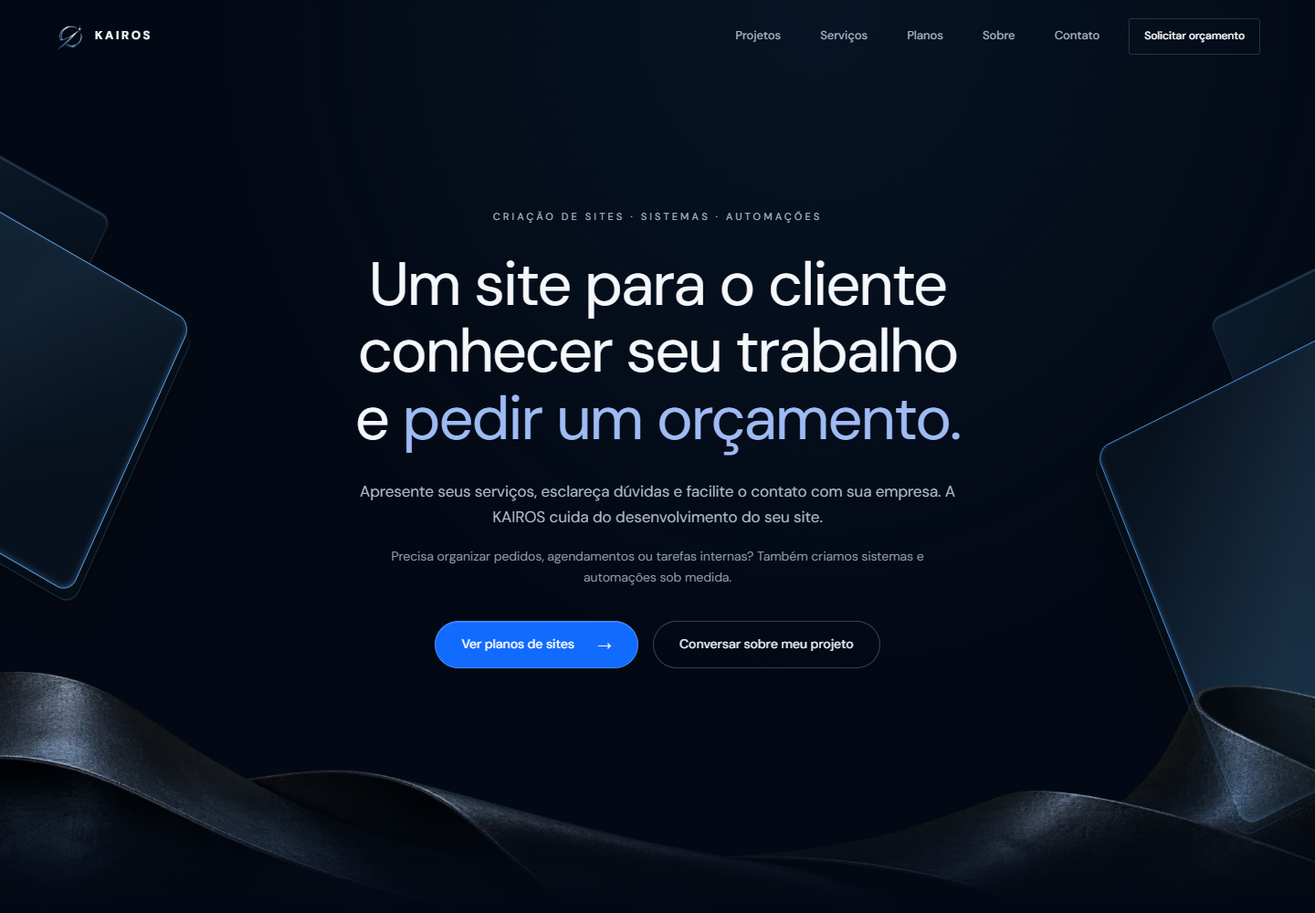
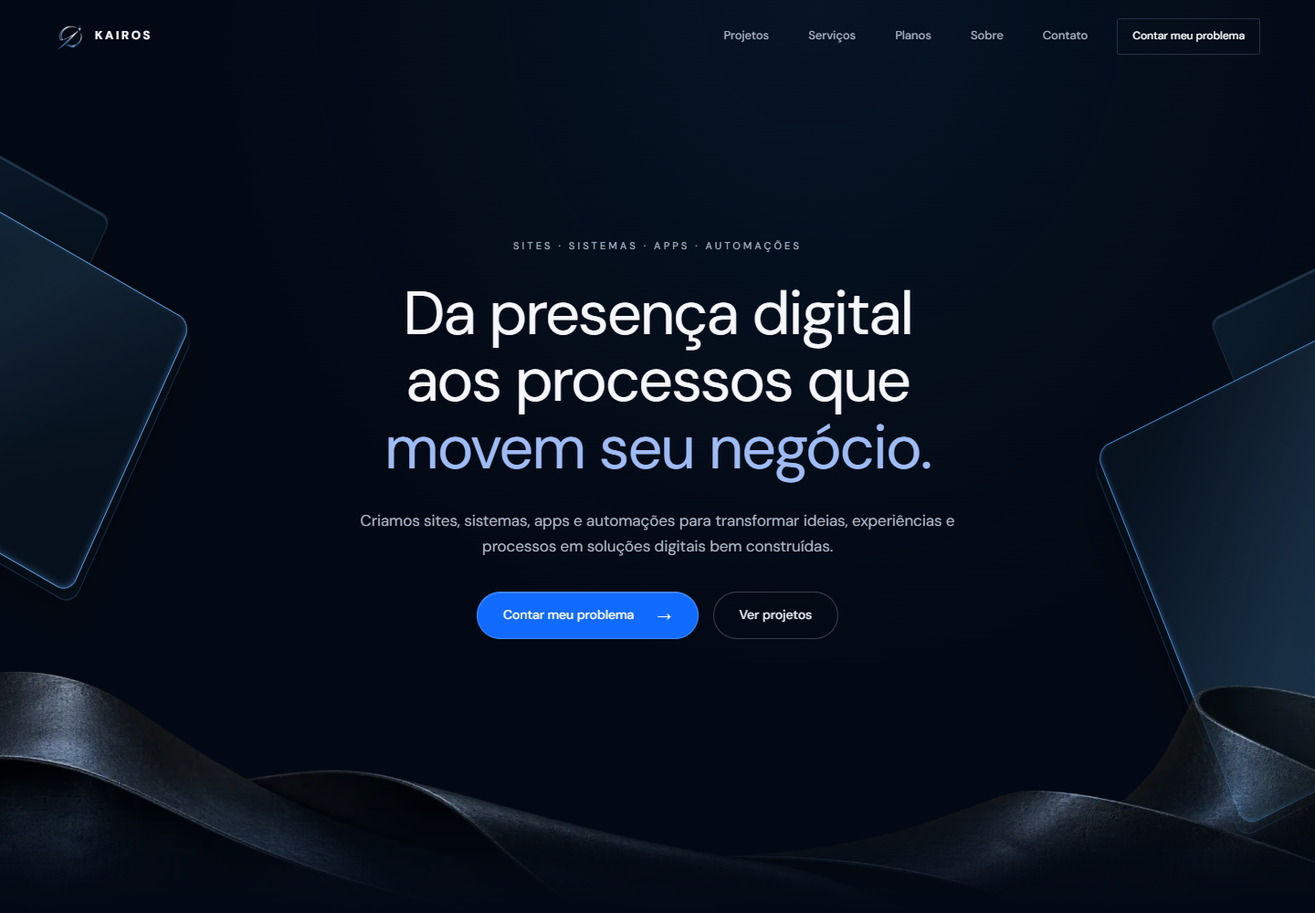
Unify KAIROS positioning and polish portfolio and conversion flow

diff --git a/components/kairos/PricingSection.tsx b/components/kairos/PricingSection.tsx
@@ -1,5 +1,4 @@
 import { sitePlans, customSolutions } from "@/data/pricing";
-import { buildWhatsAppMessageUrl } from "@/lib/constants";
 import { ProblemFlowTrigger } from "./problem-flow/ProblemFlow";
 import styles from "./PricingSection.module.css";
 
@@ -8,7 +7,7 @@ export default function PricingSection() {
     <div className={styles.shell}>
       <header className={styles.heading}>
         <h2 id="pricing-title">Planos para criar seu site.</h2>
-        <p>Compare páginas, prazo e revisões. A contratação começa com uma conversa, sem mensalidade obrigatória.</p>
+        <p>Uma página de apresentação ou um site com mais conteúdo. Compare o espaço e as revisões de cada plano.</p>
       </header>
 
       <div className={styles.plans}>
@@ -20,28 +19,27 @@ export default function PricingSection() {
             <span className={styles.upfront}>R$ {plan.upfront} à vista</span>
           </p>
           <p className={styles.description}>{plan.description}</p>
-          <p className={styles.delivery}><span>Prazo</span> {plan.delivery}{plan.id === "essencial" && <small>Após receber todo o conteúdo necessário.</small>}</p>
-          <ul className={styles.features}>{plan.features.map(feature => <li key={feature}>{feature}</li>)}</ul>
-          <a
+          <p className={styles.scope}>{plan.pages}<span aria-hidden="true"> · </span>{plan.revisions}</p>
+          <p className={styles.delivery}><span>Prazo</span>{" "}{plan.delivery}{plan.id === "essencial" && <small>{" "}Após receber todo o conteúdo necessário.</small>}</p>
+          <ul className={styles.features}>{plan.features.slice(2).map(feature => <li key={feature}>{feature}</li>)}</ul>
+          <ProblemFlowTrigger
             className={styles.choose}
-            href={buildWhatsAppMessageUrl(`Olá! Conheci a KAIROS pelo site e tenho interesse no ${plan.name}: 10x de R$ ${plan.installment} ou R$ ${plan.upfront} à vista. Gostaria de conversar sobre meu negócio e os próximos passos.`)}
-            target="_blank"
-            rel="noopener noreferrer"
-            aria-label={plan.cta + " — conversar no WhatsApp"}
+            subject={`${plan.name} — R$ ${plan.upfront} ou 10x de R$ ${plan.installment}`}
+            aria-label={`Contar meu problema — ${plan.name}`}
             data-conversion="plan_contact" data-plan-id={plan.id}
-          >{plan.cta}<span aria-hidden="true">→</span></a>
+          >Contar meu problema<span aria-hidden="true">→</span></ProblemFlowTrigger>
         </article>)}
       </div>
 
-      <div className={styles.terms}><p><strong>Criação do site em até 10 parcelas.</strong> Não é uma assinatura mensal.</p><p>Domínio e hospedagem não estão incluídos. Você pode contratar seu provedor e pedir auxílio à KAIROS na configuração. Páginas, recursos, cronograma e eventuais serviços adicionais são detalhados na proposta.</p><a href="#duvidas">Tirar dúvidas sobre os planos →</a></div>
+      <div className={styles.terms}><p><strong>Criação do site em até 10 parcelas.</strong> Sem mensalidade obrigatória da KAIROS.</p><p>Domínio e hospedagem não estão incluídos. Você pode contratar seu provedor e pedir auxílio à KAIROS na configuração. Páginas, recursos, cronograma e eventuais serviços adicionais são detalhados na proposta.</p><a href="#duvidas">Tirar dúvidas sobre os planos →</a></div>
 
       <div className={styles.custom}>
         <h3>Precisa de algo além de um site?</h3>
         <ul className={styles.solutions}>
           {customSolutions.map(solution => <li key={solution}>
-            <ProblemFlowTrigger className={styles.solution} aria-label={solution + " — solicitar orçamento"}>
+            <ProblemFlowTrigger className={styles.solution} subject={solution} aria-label={solution + " — contar meu problema"}>
               <span>{solution}</span>
-              <span className={styles.quote}>Solicitar orçamento <span className={styles.arrow} aria-hidden="true">→</span></span>
+              <span className={styles.quote}>Contar meu problema <span className={styles.arrow} aria-hidden="true">→</span></span>
             </ProblemFlowTrigger>
           </li>)}
         </ul>

diff --git a/components/kairos/ConversionSections.tsx b/components/kairos/ConversionSections.tsx
@@ -4,7 +4,7 @@ import { buildWhatsAppUrl } from "@/lib/constants";
 import styles from "./ConversionSections.module.css";
 
 export function ProcessSection() {
-  return <section id="como-funciona" className={styles.section} aria-labelledby="process-title"><div className={styles.shell}>
+  return <section id="como-funciona" className={styles.section} aria-labelledby="process-title"><div className={`${styles.shell} ${styles.processLayout}`}>
     <header className={styles.heading}><p className={styles.label}>DO PRIMEIRO CONTATO À ENTREGA</p><h2 id="process-title">Como seu projeto sai do papel.</h2><p>Você acompanha o trabalho e fala diretamente com a KAIROS pelo WhatsApp.</p></header>
     <ol className={styles.steps}>{projectSteps.map((step,index)=><li key={step.title}><span className={styles.number}>0{index+1}</span><h3>{step.title}</h3><p>{step.text}</p></li>)}</ol>
   </div></section>;
@@ -13,14 +13,14 @@ export function ProcessSection() {
 export function AboutSection() {
   return <section id="quem-somos" className={styles.section} aria-labelledby="about-title"><div className={`${styles.shell} ${styles.about}`}>
     <div><p className={styles.label}>SOBRE A KAIROS</p><h2 id="about-title">Atendimento direto, do começo à entrega.</h2></div>
-    <div><p>A KAIROS desenvolve sites, sistemas, aplicativos e automações. O ponto de partida é entender o que sua empresa precisa e definir o que será construído.</p><p>Você conversa diretamente com a KAIROS pelo WhatsApp para tirar dúvidas, alinhar a proposta e acompanhar o projeto.</p><Link className={styles.link} href="/sobre">Conhecer a KAIROS <span aria-hidden="true">→</span></Link></div>
+    <div><p>Entendemos o problema, definimos o que precisa ser construído e desenvolvemos sites, sistemas, apps e automações.</p><p>O atendimento é direto com a KAIROS. Você acompanha o desenvolvimento e alinha as decisões pelo WhatsApp.</p><Link className={styles.link} href="/sobre">Conhecer a KAIROS <span aria-hidden="true">→</span></Link></div>
   </div></section>;
 }
 
 export function FaqSection() {
-  return <section id="duvidas" className={styles.section} aria-labelledby="faq-title"><div className={styles.shell}>
+  return <section id="duvidas" className={styles.section} aria-labelledby="faq-title"><div className={`${styles.shell} ${styles.faqLayout}`}>
     <header className={styles.heading}><h2 id="faq-title">Antes de contratar.</h2><p>As respostas para as dúvidas sobre prazos, pagamento e entrega.</p></header>
     <div className={styles.faq}>{commonQuestions.map(item=><details key={item.question}><summary>{item.question}<span aria-hidden="true">+</span></summary><p>{item.answer}</p></details>)}</div>
-    <a className={styles.link} href={buildWhatsAppUrl("tirar uma dúvida antes de contratar")} target="_blank" rel="noopener noreferrer" data-conversion="whatsapp_open" data-source="faq">Ficou alguma dúvida? Fale no WhatsApp <span aria-hidden="true">→</span></a>
+    <a className={styles.link} href={buildWhatsAppUrl("tirar uma dúvida antes de contratar")} target="_blank" rel="noopener noreferrer" data-conversion="whatsapp_open" data-source="faq">Prefiro tirar uma dúvida no WhatsApp <span aria-hidden="true">→</span></a>
   </div></section>;
 }

diff --git a/app/sobre/page.tsx b/app/sobre/page.tsx
@@ -1,20 +1,20 @@
 import type { Metadata } from "next";
 import Link from "next/link";
-import { buildWhatsAppUrl } from "@/lib/constants";
+import { ProblemFlowTrigger } from "@/components/kairos/problem-flow/ProblemFlow";
 import { ProcessSection } from "@/components/kairos/ConversionSections";
 import styles from "@/components/kairos/ConversionSections.module.css";
-export const metadata: Metadata = { title: "Sobre a KAIROS", description: "Sites, sistemas e automações com atendimento direto da KAIROS, do primeiro contato à entrega.", alternates:{canonical:"/sobre"} };
+export const metadata: Metadata = { title: "Sobre a KAIROS", description: "Sites, sistemas, apps e automações com atendimento direto da KAIROS, do primeiro contato à entrega.", alternates:{canonical:"/sobre"} };
 export default function AboutPage() {
   return <main id="conteudo">
     <section className={`${styles.section} ${styles.page}`}><div className={`${styles.shell} ${styles.prose}`}>
-      <p className={styles.label}>KAIROS · DESENVOLVIMENTO DE SITES E SOFTWARE</p>
+      <p className={styles.label}>SITES · SISTEMAS · APPS · AUTOMAÇÕES</p>
       <h1>Você fala diretamente com quem cuida do seu projeto.</h1>
       <p>A KAIROS desenvolve sites para empresas e ferramentas para a rotina do negócio: sistemas, aplicativos e automações.</p>
       <p>O atendimento acontece diretamente com a KAIROS, principalmente pelo WhatsApp, desde a primeira conversa até a entrega. É por ali que você apresenta sua necessidade, tira dúvidas e acompanha o trabalho.</p>
       <h2>O combinado vem antes do desenvolvimento.</h2>
-      <p>A proposta define as páginas, funcionalidades, prazo e revisões do projeto. Os planos de sites não têm mensalidade obrigatória. Domínio, hospedagem e serviços de manutenção são tratados separadamente.</p>
+      <p>A proposta define as páginas, funcionalidades, prazo e revisões do projeto. Domínio, hospedagem e serviços de manutenção são tratados separadamente.</p>
       <p>Para conhecer o trabalho, veja as telas e os detalhes dos projetos disponíveis no portfólio.</p>
-      <div className={styles.pageActions}><Link className="button" href="/projetos">Ver projetos →</Link><a className={styles.link} href={buildWhatsAppUrl()} target="_blank" rel="noopener noreferrer" data-conversion="whatsapp_open" data-source="about">Conversar com a KAIROS →</a></div>
+      <div className={styles.pageActions}><Link className="button" href="/projetos">Ver projetos →</Link><ProblemFlowTrigger className={styles.link}>Contar meu problema →</ProblemFlowTrigger></div>
     </div></section>
     <ProcessSection />
   </main>;

diff --git a/components/kairos/problem-flow/ProblemFlow.tsx b/components/kairos/problem-flow/ProblemFlow.tsx
@@ -9,13 +9,13 @@ import { buildWhatsAppUrl } from "@/lib/constants";
 import { trackConversion } from "@/lib/conversion";
 import styles from "./ProblemFlow.module.css";
 
-const FlowContext = createContext<(() => void) | null>(null);
-export function ProblemFlowTrigger({ children, onClick, ...props }: AnchorHTMLAttributes<HTMLAnchorElement>) {
+const FlowContext = createContext<((subject?: string) => void) | null>(null);
+export function ProblemFlowTrigger({ children, onClick, subject, ...props }: AnchorHTMLAttributes<HTMLAnchorElement> & { subject?: string }) {
   const open = useContext(FlowContext);
   return <Link {...props} href="/#briefing" onClick={event => {
     onClick?.(event);
     if (!open || event.defaultPrevented || event.metaKey || event.ctrlKey || event.shiftKey || event.altKey) return;
-    event.preventDefault(); open();
+    event.preventDefault(); open(subject);
   }}>{children}</Link>;
 }
 
@@ -30,7 +30,7 @@ export default function ProblemFlowProvider({ children }: { children: ReactNode 
   const [editing, setEditing] = useState(false);
   const [error, setError] = useState("");
 
-  function open() { trackConversion("form_start"); origin.current = document.activeElement as HTMLElement | null; setOpened(true); }
+  function open(subject?: string) { setAnswers(current => ({ ...current, interest: subject || "" })); trackConversion("form_start"); origin.current = document.activeElement as HTMLElement | null; setOpened(true); }
   function close() { setOpened(false); }
   useEffect(() => {
     const openHash = () => { if (location.hash === "#briefing") setOpened(true); };
@@ -82,6 +82,7 @@ export default function ProblemFlowProvider({ children }: { children: ReactNode 
         <p className={styles.hint}>Prepare um resumo em três etapas ou <a href={buildWhatsAppUrl()} data-conversion="whatsapp_open" data-source="form_direct" target="_blank" rel="noopener noreferrer">converse direto no WhatsApp</a>.</p>
         <p className={styles.progress}>{reviewing ? "Revisão" : `Pergunta ${step + 1} de 3`}</p>
         <h2 id="problem-flow-title" ref={heading} tabIndex={-1}>{reviewing ? "Confira seu resumo" : QUESTIONS[step]}</h2>
+        {answers.interest && <p className={styles.hint}>Interesse: {answers.interest}</p>}
         <div key={reviewing ? "review" : step} className={styles.step}>
           {reviewing ? <><ProblemReview answers={answers} edit={edit} /><button className={styles.textButton} type="button" onClick={back}>← Voltar</button></> : <form onSubmit={continueFlow} noValidate>
             {step === 0 && <ProblemStep {...props} />}

diff --git a/app/projetos/kairos/page.tsx b/app/projetos/kairos/page.tsx
@@ -1,0 +1,21 @@
+import type { Metadata } from "next";
+import Image from "next/image";
+import Link from "next/link";
+import { ProblemFlowTrigger } from "@/components/kairos/problem-flow/ProblemFlow";
+import styles from "@/components/kairos/ConversionSections.module.css";
+export const metadata: Metadata = { title: "KAIROS — projeto autoral", description: "As decisões de conteúdo, navegação e movimento do site da KAIROS.", alternates: { canonical: "/projetos/kairos" } };
+export default function KairosCase() {
+ return <main id="conteudo" className={`${styles.section} ${styles.page}`}><div className={styles.shell}>
+  <Link className={styles.link} href="/projetos">← Ver projetos</Link>
+  <header className={styles.prose}><p className={styles.label}>PROJETO AUTORAL · SITE DA KAIROS</p><h1>Do que fazemos ao que você precisa.</h1><p>O próprio site da KAIROS reúne presença digital, sistemas, apps e automações em uma apresentação com planos e um caminho para explicar o projeto.</p></header>
+  <figure className={styles.caseImage}><Image src="/portfolio/kairos-current.png" alt="Página inicial da KAIROS" width={1440} height={1000} sizes="(max-width:760px) 100vw, 1232px" priority /><figcaption>Abertura e navegação do site.</figcaption></figure>
+  <div className={styles.caseNotes}>{[
+   ["Problema", "Apresentar serviços diferentes sem perder clareza sobre o que pode ser contratado como plano de site e o que precisa de orçamento próprio."],
+   ["Direção", "Uma abertura de maior impacto, seguida por projetos, serviços, planos e respostas às dúvidas de contratação."],
+   ["Arquitetura", "Páginas em Next.js e componentes React, com dados de planos e perguntas frequentes compartilhados para manter as condições consistentes."],
+   ["Movimento", "Transições da seção Memphis acompanham a rolagem. Há uma alternativa em SVG e suporte à preferência por movimento reduzido."],
+   ["Entrega", "Portfólio, comparação de planos e resumo em três etapas. O visitante revisa a mensagem antes de continuar no WhatsApp."]
+  ].map(([title,text])=><section key={title}><h2>{title}</h2><p>{text}</p></section>)}</div>
+  <ProblemFlowTrigger className={styles.link}>Contar meu problema →</ProblemFlowTrigger>
+ </div></main>;
+}

diff --git a/components/kairos/KairosLab.tsx b/components/kairos/KairosLab.tsx
@@ -3,15 +3,15 @@ import Link from "next/link";
 import { portfolioProjects } from "@/data/projects";
 import styles from "./KairosLab.module.css";
 
-export default function KairosLab() {
+export default function KairosLab({ priority = false }: { priority?: boolean }) {
   return <section id="projetos" className={styles.lab} aria-labelledby="lab-title">
     <header className={styles.intro}><div className={styles.shell}><h2 id="lab-title">Veja o trabalho na prática.</h2><p>Telas e funcionalidades de projetos desenvolvidos pela KAIROS. Veja os detalhes para avaliar o que faz sentido para o seu negócio.</p></div></header>
     <div className={`${styles.shell} ${styles.portfolioGrid}`}>
       {portfolioProjects.map(project=><article key={project.id} className={styles.portfolioCard}>
-        <Link href={project.url} aria-label={`Ver projeto ${project.name}`} className={styles.portfolioImage}><Image src={project.image} alt={`Página do projeto ${project.name}`} width={1440} height={1000} sizes="(max-width:760px) calc(100vw - 40px), 600px" /></Link>
-        <p className={styles.portfolioType}>{project.id === "kairos" ? "SITE PRÓPRIO · KAIROS" : "PROJETO DESENVOLVIDO · CATÁLOGO DE RELÓGIOS"}</p>
+        <Link href={project.url} aria-label={`Ver projeto ${project.name}`} className={styles.portfolioImage}><Image src={project.image} alt={`Página do projeto ${project.name}`} width={1440} height={1000} priority={priority} sizes="(max-width:760px) calc(100vw - 40px), 600px" /></Link>
+        <p className={styles.portfolioType}>{project.id === "kairos" ? "PROJETO AUTORAL · SITE DA KAIROS" : "PROJETO AUTORAL · KAIROS LAB"}</p>
         <h3>{project.name}</h3><p>{project.description}</p>
-        <Link className={styles.link} href={project.url}>{project.id === "kairos" ? "Explorar este site" : "Ver telas e funcionalidades"} <span aria-hidden="true">→</span></Link>
+        <Link className={styles.link} href={project.url}>{project.id === "kairos" ? "Ver decisões do projeto" : "Ver telas e funcionalidades"} <span aria-hidden="true">→</span></Link>
       </article>)}
     </div>
   </section>;

diff --git a/components/kairos/ConversionSections.module.css b/components/kairos/ConversionSections.module.css
@@ -30,3 +30,30 @@
 .pageActions { display:flex; flex-wrap:wrap; align-items:center; gap:24px; margin-top:32px; }
 .pageActions .link { margin-top:0; }
 @media(max-width:760px) { .page { padding-top:120px; } .pageActions { align-items:stretch; flex-direction:column; } }
+
+/* Quieter editorial rhythm after the opening and portfolio. */
+.section { padding-block:72px; }
+.processLayout,.faqLayout { display:grid; grid-template-columns:minmax(0,4fr) minmax(0,7fr); gap:32px 80px; align-items:start; }
+.processLayout .heading,.faqLayout .heading { margin-bottom:0; }
+.processLayout h2,.faqLayout h2,.about h2 { font-size:clamp(30px,3vw,42px); }
+.steps { display:block; }
+.steps li { display:grid; grid-template-columns:32px minmax(0,1fr); column-gap:20px; padding:20px 0; border-top:1px solid #253045; }
+.steps li:last-child { border-bottom:1px solid #253045; }
+.number { grid-row:1 / 3; padding-top:3px; }
+.steps h3 { margin:0 0 8px; font-size:19px; }
+.steps p { grid-column:2; font-size:14px; line-height:1.65; }
+.faq summary { padding:17px 0; font-size:16px; }
+.faq details p { padding-bottom:20px; font-size:14px; }
+.faqLayout > .link { grid-column:2; margin-top:0; font-size:14px; }
+.faq summary:focus-visible,.link:focus-visible { outline:2px solid #aacaff; outline-offset:5px; }
+.about { gap:80px; }
+.caseImage { margin:48px 0; }
+.caseImage img { width:100%; height:auto; border:1px solid #253045; }
+.caseImage figcaption { color:#a8b4c5; font-size:13px; margin-top:12px; }
+.caseNotes { max-width:950px; }
+.caseNotes section { display:grid; grid-template-columns:1fr 2fr; gap:48px; border-top:1px solid #253045; padding:24px 0; }
+.caseNotes h2 { font-size:24px; }
+.caseNotes p { margin:0; }
+.page { padding-top:152px; }
+@media(max-width:900px) { .processLayout,.faqLayout { grid-template-columns:1fr; gap:24px; } .faqLayout > .link { grid-column:1; } }
+@media(max-width:760px) { .section { padding-block:48px; } .page { padding-top:120px; } .about { gap:24px; } .caseNotes section { grid-template-columns:1fr; gap:12px; } }

diff --git a/components/kairos/AfterDelivery.tsx b/components/kairos/AfterDelivery.tsx
@@ -1,14 +1,9 @@
-import Reveal from "./Reveal";
+import Link from "next/link";
 import styles from "./Capabilities.module.css";
-const pillars = [
-  { title: "Sem mensalidade obrigatória", description: "Os planos são para a criação do site. Não há uma assinatura obrigatória de manutenção com a KAIROS." },
-  { title: "Domínio e hospedagem à parte", description: "Você pode contratar seu provedor. A KAIROS pode auxiliar na configuração; o custo depende do projeto e do serviço escolhido." },
-  { title: "Alterações futuras", description: "Novas funcionalidades, atualizações recorrentes de conteúdo e manutenção contínua são cobradas separadamente, mediante orçamento." },
-  { title: "Correções e garantia", description: "O período e as condições de garantia para correções relacionadas ao desenvolvimento são definidos na proposta." },
-];
 export default function AfterDelivery() {
-  return <section className={styles.delivery} aria-labelledby="delivery-title"><div className={`${styles.shell} ${styles.layout} ${styles.deliveryLayout}`}>
-    <Reveal className={`${styles.intro} ${styles.deliveryIntro}`}><p className={styles.eyebrow}>DEPOIS DA ENTREGA</p><h2 id="delivery-title">O que acontece quando o site fica pronto?</h2></Reveal>
-    <Reveal className={styles.pillarsReveal}><dl className={styles.pillars}>{pillars.map(p=><div key={p.title}><dt>{p.title}</dt><dd>{p.description}</dd></div>)}</dl></Reveal>
-  </div></section>;
+  return <aside className={styles.delivery} aria-labelledby="delivery-title"><div className={`${styles.shell} ${styles.deliveryNote}`}>
+    <h2 id="delivery-title">Depois da entrega</h2>
+    <p>Novas funcionalidades e manutenção contínua são orçadas à parte. O período e as condições de garantia para correções do desenvolvimento ficam definidos na proposta.</p>
+    <Link href="/#duvidas">Ver dúvidas sobre os planos <span aria-hidden="true">↗</span></Link>
+  </div></aside>;
 }

diff --git a/components/kairos/VyneCase.tsx b/components/kairos/VyneCase.tsx
@@ -24,7 +24,7 @@ export default function VyneCase({ project }: { project: Project }) {
 
           <div className="vyne-case-intro">
             <div>
-              <span className="vyne-case-kicker">Catálogo de relógios</span>
+              <span className="vyne-case-kicker">Projeto autoral · KAIROS Lab</span>
               <h1>{project.name}</h1>
             </div>
             <div className="vyne-case-intro-copy">
@@ -53,7 +53,7 @@ export default function VyneCase({ project }: { project: Project }) {
       <section className="vyne-case-challenge">
         <div className="section-shell vyne-case-challenge-grid">
           <Reveal className="vyne-case-section-index">
-            <p>Contexto e desafio</p>
+            <p>Problema</p>
           </Reveal>
           <Reveal className="vyne-case-challenge-copy">
             <p className="vyne-case-lead">O projeto reúne modelos de diferentes marcas em um catálogo que pode ser filtrado.</p>
@@ -70,7 +70,7 @@ export default function VyneCase({ project }: { project: Project }) {
       <section className="vyne-case-strategy">
         <div className="section-shell">
           <Reveal className="vyne-case-section-head">
-            <span>Estratégia</span>
+            <span>Decisão</span>
             <h2>Fotos e especificações<br />para comparar modelos.</h2>
           </Reveal>
 
@@ -88,7 +88,7 @@ export default function VyneCase({ project }: { project: Project }) {
       <section className="vyne-case-direction">
         <div className="section-shell vyne-case-direction-grid">
           <Reveal className="vyne-case-direction-copy">
-            <span>Direção visual</span>
+            <span>Solução</span>
             <h2>Fundo escuro, fotos grandes e destaques em verde.</h2>
             <p>O verde destaca ações e informações sobre o fundo preto. As fotos têm espaço próprio, ao lado dos dados de cada relógio.</p>
           </Reveal>

diff --git a/components/kairos/ServicesSection.tsx b/components/kairos/ServicesSection.tsx
@@ -10,18 +10,18 @@ export default function ServicesSection() {
       <div className={`${styles.shell} ${styles.layout}`}>
         <Reveal className={styles.intro}>
           <h2 id="services-title">O que você precisa criar?</h2>
-          <p>Um site para seus clientes conhecerem a empresa ou uma ferramenta para o trabalho do dia a dia. Cada serviço tem seu próprio escopo.</p>
+          <p>Da apresentação da empresa às ferramentas da operação. Definimos o que construir a partir do seu problema.</p>
         </Reveal>
 
         <ol className={styles.serviceList}>
-          {services.map((service) => (
+          {services.map((service, index) => (
             <li key={service.name}>
               <Reveal>
-                <ProblemFlowTrigger className={styles.service} aria-label={`${service.name} — solicitar orçamento`}>
-                  <div className={styles.serviceCopy}>
+                <ProblemFlowTrigger className={styles.service} subject={service.name} aria-label={`${service.name} — contar meu problema`}>
+                  <span className={styles.index} aria-hidden="true">0{index + 1}</span><div className={styles.serviceCopy}>
                     <h3>{service.name}</h3>
                     <p>{service.description}</p>
-                    <span className={styles.price}>{service.name === "Sites" ? `A partir de R$ ${sitePlans[0].upfront}` : "Solicitar orçamento"}</span>
+                    <span className={styles.price}>{service.name === "Sites" ? `A partir de R$ ${sitePlans[0].upfront}` : "Sob orçamento"}</span>
                   </div>
                   <span className={styles.arrow} aria-hidden="true">→</span>
                 </ProblemFlowTrigger>

diff --git a/components/kairos/Capabilities.module.css b/components/kairos/Capabilities.module.css
@@ -46,13 +46,13 @@
 .serviceList {
   list-style: none;
   padding: 0;
-  margin: 64px 0 0;
+  margin: 0;
   min-width: 0;
 }
 
 .service {
   display: grid;
-  grid-template-columns: minmax(0, 1fr) 24px;
+  grid-template-columns: 32px minmax(0, 1fr) 24px;
   gap: 24px;
   align-items: start;
   padding-block: 32px;
@@ -105,7 +105,7 @@
   .services { padding-block: 64px; }
   .intro h2 { font-size: clamp(34px, 8vw, 42px); }
   .intro p { margin-top: 16px; }
-  .service { padding-block: 24px; grid-template-columns: minmax(0, 1fr) 18px; gap: 12px; }
+  .service { padding-block: 24px; grid-template-columns: 22px minmax(0, 1fr) 18px; gap: 12px; }
   .index { padding-top: 5px; }
   .serviceCopy h3 { font-size: clamp(24px, 6.1vw, 28px); }
   .serviceCopy p { margin-top: 12px; }
@@ -125,3 +125,10 @@
   .service, .index, .arrow { transition: none; }
   .service:hover .arrow { transform: none; }
 }
+
+.delivery { padding-block:0 48px; }
+.deliveryNote { display:grid; grid-template-columns:1fr 2fr; column-gap:64px; border-top:1px solid var(--cap-line); padding-top:28px; }
+.deliveryNote h2 { margin:0; font-size:20px; font-weight:500; }
+.deliveryNote p { margin:0; color:var(--cap-muted); font-size:14px; line-height:1.75; max-width:76ch; }
+.deliveryNote a { grid-column:2; margin-top:12px; font-size:13px; color:#b2bdcc; text-underline-offset:4px; }
+@media(max-width:760px) { .deliveryNote { grid-template-columns:1fr; gap:14px; } .deliveryNote a { grid-column:1; margin:0; } }

diff --git a/data/problem-flow.ts b/data/problem-flow.ts
@@ -5,6 +5,7 @@ export const QUESTIONS = ["O que você quer criar ou melhorar?", "Que tipo de ne
 export type CurrentProcess = typeof CURRENT_PROCESSES[number];
 export type Goal = typeof GOALS[number];
 export type ProblemAnswers = {
+  interest: string;
   problem: string;
   business: typeof BUSINESS_TYPES[number] | "";
   otherBusiness: string;
@@ -16,7 +17,7 @@ export type ProblemAnswers = {
   email: string;
   company: string;
 };
-export const EMPTY_PROBLEM: ProblemAnswers = { problem: "", business: "", otherBusiness: "", current: [], goals: [], otherGoal: "", name: "", whatsapp: "", email: "", company: "" };
+export const EMPTY_PROBLEM: ProblemAnswers = { interest: "", problem: "", business: "", otherBusiness: "", current: [], goals: [], otherGoal: "", name: "", whatsapp: "", email: "", company: "" };
 
 export function toggleSelection<T extends string>(values: T[], value: T, exclusive: T): T[] {
   if (values.includes(value)) return values.filter(item => item !== value);
@@ -54,6 +55,7 @@ export const goalsLabel = (a: ProblemAnswers) => a.goals.map(goal => goal === "O
 export function buildProblemMessage(a: ProblemAnswers) {
   return [
     "Olá! Conheci a KAIROS pelo site e queria conversar sobre um projeto.",
+    a.interest ? `Interesse: ${a.interest}` : "",
     `O que preciso:\n${a.problem.trim()}`,
     `Tipo de negócio:\n${businessLabel(a)}`,
     `Nome: ${a.name.trim()}`,
